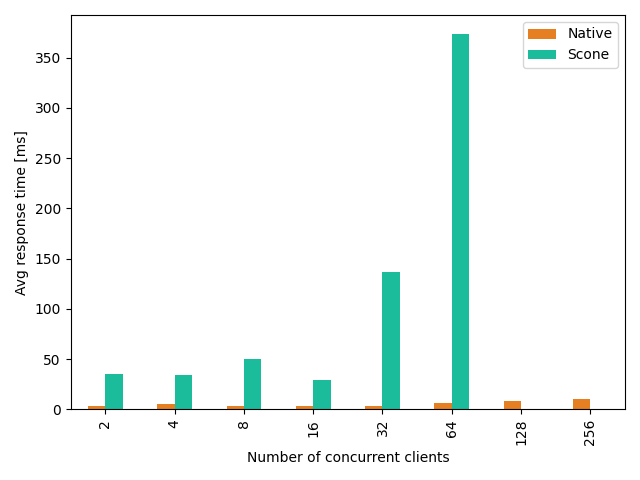
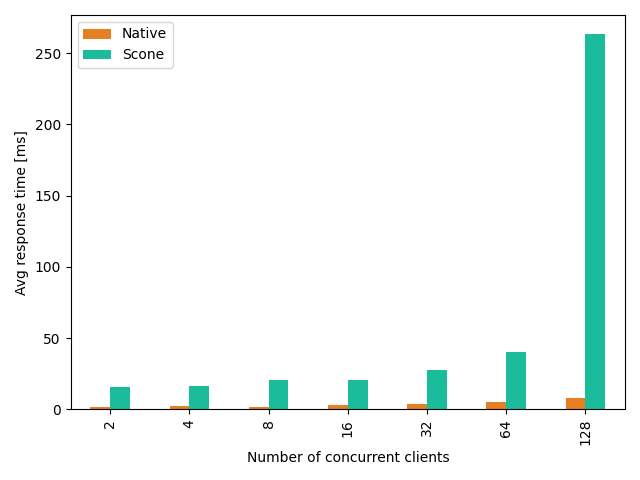
Update scone benchmark results

diff --git a/lld-benchmark/src/docker.rs b/lld-benchmark/src/docker.rs
@@ -28,7 +28,7 @@ impl DockerComposeFile {
     pub async fn up(self) -> LldResult<()> {
         let mut command = Command::new("docker");
         command.arg("compose").arg("-f").arg(self.filename());
-        command.arg("up").arg("-d");
+        command.arg("up").arg("-d").arg("--force-recreate").arg("-V");
 
         debug!("Docker command: {:?}", command);
         let output = command.output().await?;

diff --git a/lld-benchmark/src/main.rs b/lld-benchmark/src/main.rs
@@ -64,7 +64,7 @@ async fn start_step(
         let file: DockerComposeFile = container.into();
         file.up().await?;
 
-        sleep(Duration::from_millis(20_000)).await;
+        sleep(Duration::from_millis(45_000)).await;
 
         let stop_at = get_current_time() + (duration as u64);
         let result = start_concurrent_connections_round(environment, count, stop_at).await;
